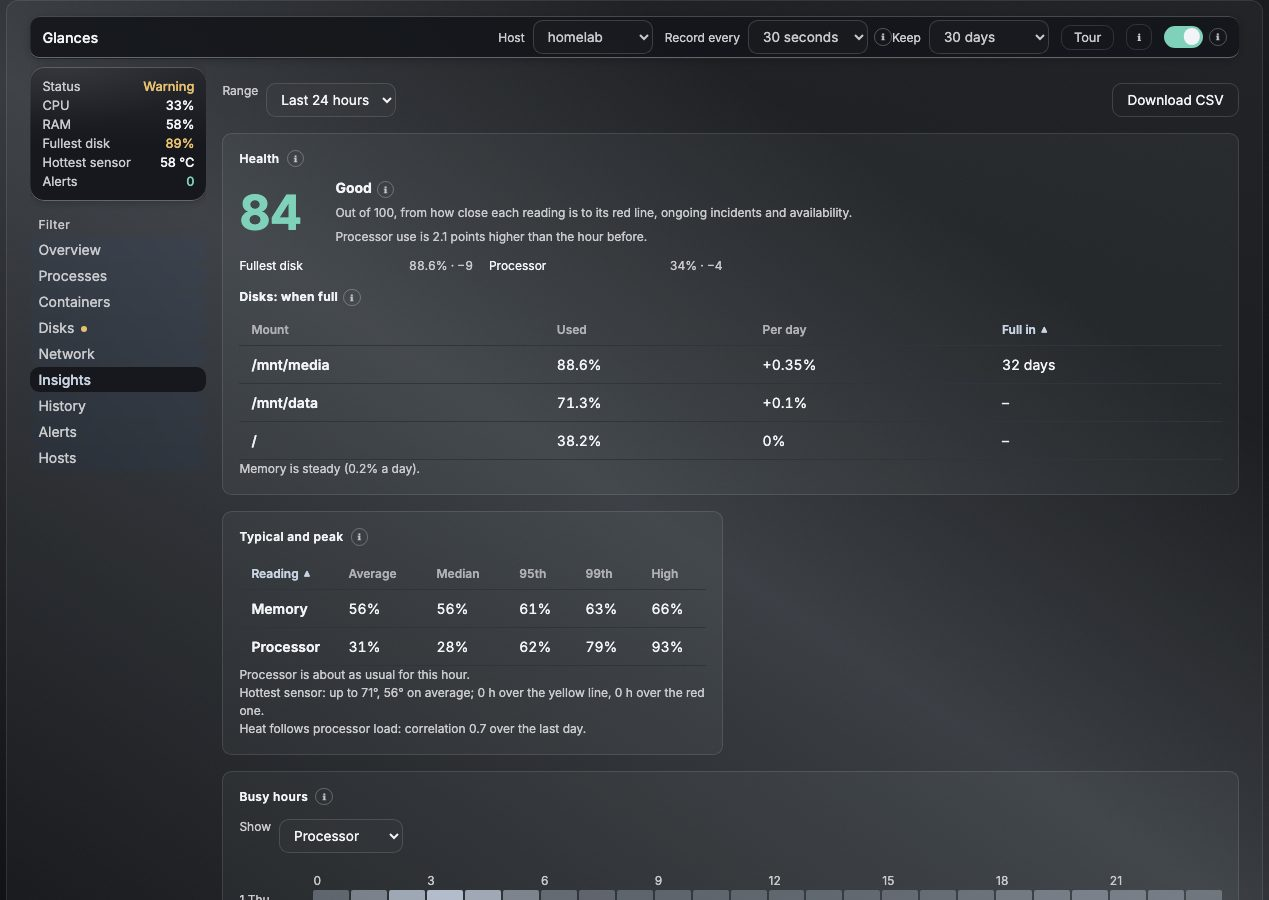
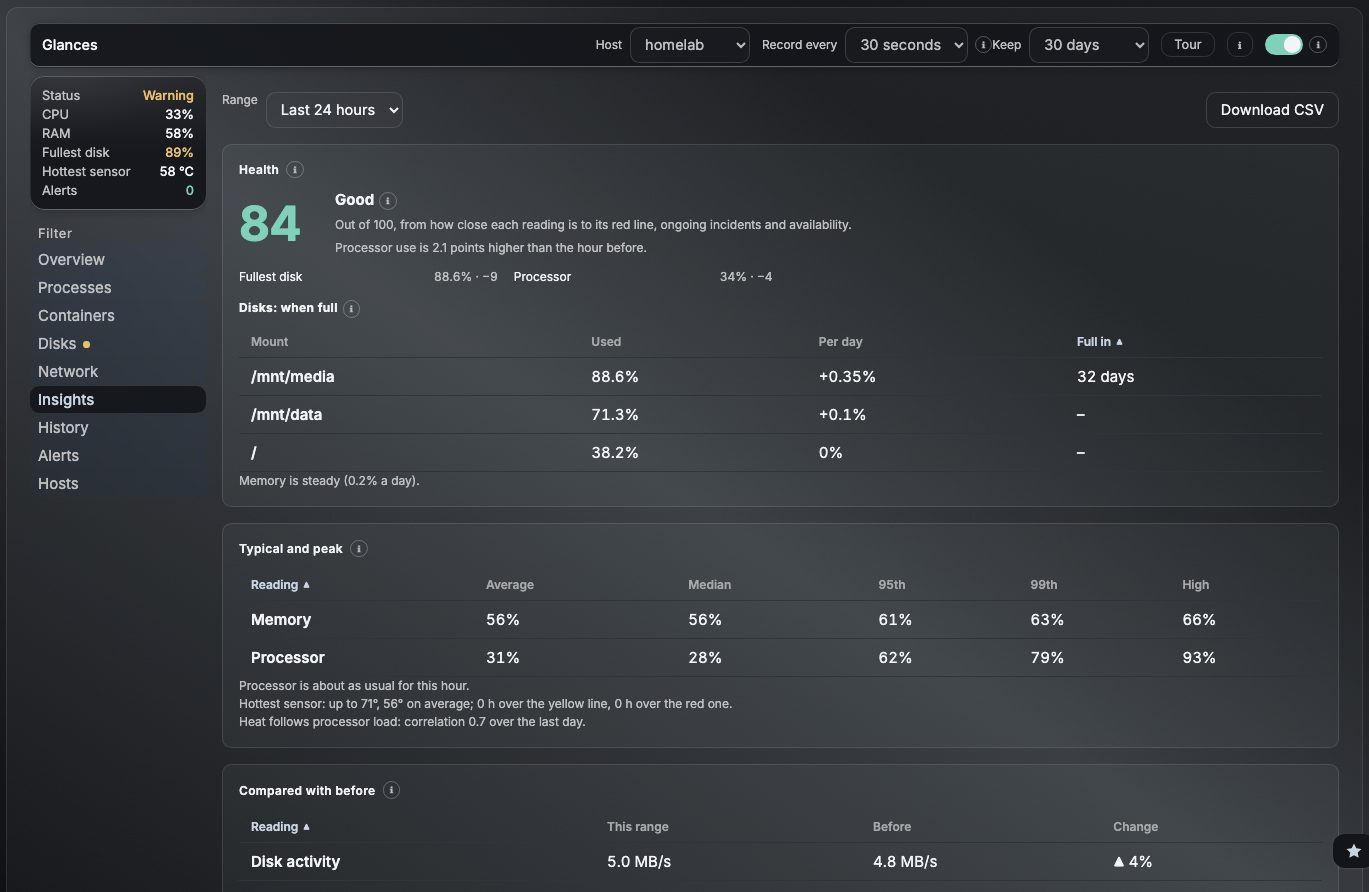
MANUAL: Glances Insights lists every block and its ⓘ, and the Docker link says why nothing paired

diff --git a/MANUAL.md b/MANUAL.md
@@ -3306,12 +3306,35 @@ The **⋯** in the panel's head copies the name or the PID, and for a container 
 
 **Containers** lists the containers Glances sees; a **↗** opens the same container in the Containers view when nextDash manages that machine's Docker ([§15A.6](#15a6-the-docker-host)). A container's side panel has the same two tabs.
 
-**Insights** has a **Range** (24 hours, 7 or 30 days) and **Download CSV**, and answers in blocks: a **Health** score out of 100, from how close each reading is to its red line, ongoing incidents and availability (85 and up is good); **Disks: when full**, a straight line through the last week of each disk's use; **Typical and peak** (average, median, 95th and 99th percentile); **Busy hours**, one square per hour of each day; **Network per day**; **Availability**, a block per quarter of an hour; **Incidents**; and **Who used the most**, over the processes and containers whose history you recorded.
+**Insights** has a **Range** (24 hours, 7 or 30 days) and **Download CSV**, and answers in blocks. Each block has an **ⓘ** beside its title that says in two or three sentences what it shows. The blocks are:
+
+- **Health** — a score out of 100, from how close each reading is to its red line, ongoing incidents and availability (85 and up is good);
+- **Disks: when full** — a straight line through the last week of each disk's use;
+- **Typical and peak** — average, median, 95th and 99th percentile;
+- **Compared with before** — the average of each reading over the range, set against the same length of time right before it, with the change in percent; it needs twice the range of record;
+- **Busy hours** — one square per hour of each day;
+- **A typical day** — the average for each hour of the day, one bar per hour, with the highest hour on the right; it shows when the machine is busy or quiet;
+- **Peaks and rhythm** — the busiest and the quietest hour of the day, and the moments a reading rose far above its usual level, with the busiest process or container of that moment when its history is recorded;
+- **Load and cores** — the 1, 5 and 15 minute load against the number of cores, and each core's average with its peak as a tick;
+- **Memory and swap** — where the memory goes on average (in use, cache, free), how long the swap was in use, and who used the most memory;
+- **Temperature per sensor** — every recorded sensor, hottest first, with the time it spent over the yellow line;
+- **Disk space over time** and **Disk activity** — how much each disk filled up over the range, and what it read and wrote per second;
+- **Network per day** and **Network per interface** — what the network carried, and the containers with the most traffic;
+- **Availability** — a block per quarter of an hour, with the outages of the range counted underneath;
+- **Incidents** — with a summary line per kind;
+- **Who used the most** — over the processes and containers whose history you recorded.
+
+A block with too little behind it is left out.
 
 <p align="center">
-  <img src="screenshots/manual.md/15a-glances-insights.jpg" alt="The Glances page on Insights: a health score of 84, good, a table of disks with when each is full, and a table of typical and peak readings for memory and processor" width="860">
+  <img src="screenshots/manual.md/15a-glances-insights.jpg" alt="The Glances page on Insights: a health score of 84, good, a table of disks with when each is full, a table of typical and peak readings for memory and processor, and the start of Compared with before" width="860">
 </p>
 <p align="center"><sub>Insights: the health score, and the disk that is filling.</sub></p>
+
+<p align="center">
+  <img src="screenshots/manual.md/15a-glances-insights-more.jpg" alt="The Insights block A typical day: a row of 24 bars per hour for processor, memory and network, with the highest hour on the right and an ⓘ beside the title" width="860">
+</p>
+<p align="center"><sub>Further down: a typical day, with an ⓘ beside every title.</sub></p>
 
 <a id="15a4-the-record"></a>
 
@@ -3369,6 +3392,7 @@ Then the two views meet:
 
 - a **↗** in the Glances Containers section opens the container in the Containers view, and the Containers side panel opens it back — it has a **From Glances** part with what Glances recorded about it;
 - the moments a container restarted are marked on the Glances graphs;
+- when the two are linked but not one container could be paired, Config → Glances → Advanced and the Containers view say why: the containers could not be read from Glances, they could not be read from Docker, or both lists have containers and none belong together (check that this Glances runs on the machine whose Docker the Containers view reads);
 - **Use Glances for the CPU, memory and network in the Containers view** (on by default) lets the Containers view ask Glances once for every container instead of asking Docker for each. Containers Glances does not know — or does not give a core count for — are still read from Docker, and so is everything when Glances does not answer within a few seconds.
 
 <a id="15a7-the-widget"></a>
